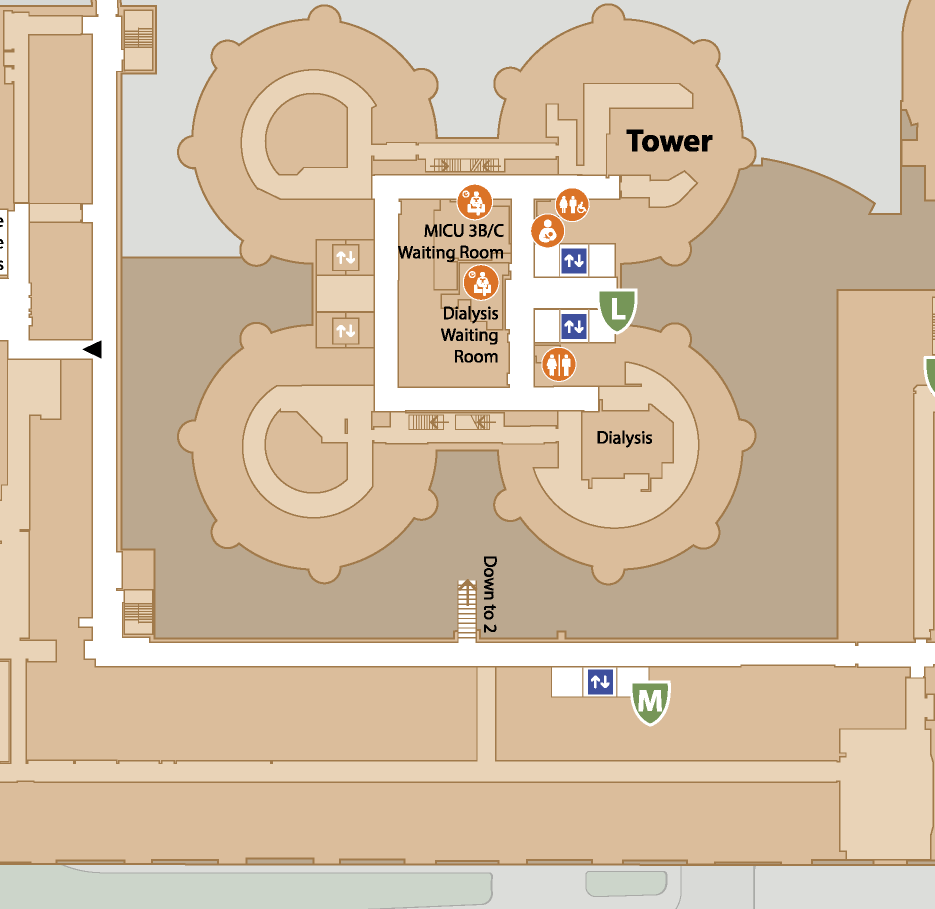
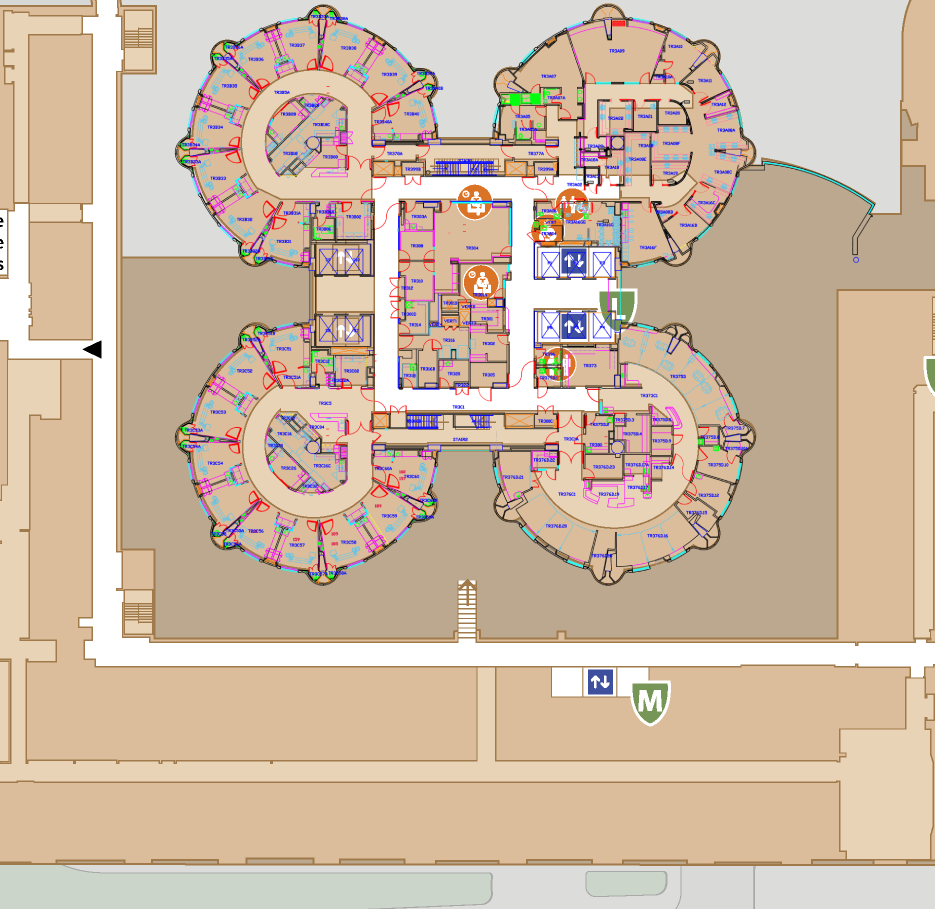
Added 4th and 5th floor and service request filtering

Changed region(s): [[0.1861, 0.0, 0.8374, 0.6469], [0.8684, 0.1848, 0.9305, 0.2772], [0.4963, 0.6161, 0.5273, 0.6777]]

diff --git a/src/main/resources/edu/wpi/energetic_easter_bunnies/view/styles/map.css b/src/main/resources/edu/wpi/energetic_easter_bunnies/view/styles/map.css
@@ -16,6 +16,14 @@
     -fx-background-image: url('../images/maps/03_thethirdfloor.png');
 }
 
+.floor4Map {
+    -fx-background-image: url('../images/maps/04_thefourthfloor.png');
+}
+
+.floor5Map {
+    -fx-background-image: url('../images/maps/05_thefifthfloor.png');
+}
+
 .floorL1Map {
     -fx-background-image: url('../images/maps/00_thelowerlevel1.png');
 }

diff --git a/src/main/java/edu/wpi/energetic_easter_bunnies/controllers/mapPageController.java b/src/main/java/edu/wpi/energetic_easter_bunnies/controllers/mapPageController.java
@@ -43,6 +43,7 @@ public class mapPageController implements Initializable {
   List<MedicalEquipment> medEqList;
   List<MedicalEquipment> filteredMedEqList;
   List<serviceRequest> servReqList;
+  List<serviceRequest> filteredServReqList;
 
   int zoomIncrement = 50;
   int maxZoom = 1035;
@@ -57,7 +58,7 @@ public class mapPageController implements Initializable {
   @FXML JFXSlider zoomSlider;
   @FXML JFXToggleButton filterMode;
 
-  ObservableList<String> floors = FXCollections.observableArrayList("1", "2", "3", "L1", "L2");
+  ObservableList<String> floors = FXCollections.observableArrayList("L1", "L2", "1", "2", "3", "4", "5");
 
   public mapPageController() throws SQLException {
     int i = 3;
@@ -88,7 +89,11 @@ public class mapPageController implements Initializable {
     }
 
     filterMedicalEquipment();
-    filterServiceRequests();
+    try {
+      filterServiceRequests();
+    } catch (SQLException e) {
+      e.printStackTrace();
+    }
 
     // Display the currently selected filterMode
     if (filterMode.isSelected() == false) {
@@ -100,7 +105,11 @@ public class mapPageController implements Initializable {
         e.printStackTrace();
       }
     } else {
-      // Show service request locations
+      try {
+        displayServiceRequestLocations(filteredServReqList);
+      } catch (FileNotFoundException e) {
+        e.printStackTrace();
+      }
     }
   }
 
@@ -152,6 +161,37 @@ public class mapPageController implements Initializable {
     }
   }
 
+  private void displayServiceRequestLocations(List<serviceRequest> servReqList)
+      throws FileNotFoundException {
+
+    System.out.println("Display Service Request Locations");
+
+    double imageX = mapImage.getFitWidth();
+    double coordinateX = 935;
+    double scaleFactor = imageX / coordinateX;
+
+    // Remove all the icons from the map
+    mapBox.getChildren().clear();
+    mapBox.getChildren().add(mapImage);
+
+    // Display an icon for each item in the filtered list
+    for (serviceRequest e : filteredServReqList) {
+      Image image =
+          new Image(
+              new FileInputStream(
+                  "src/main/resources/edu/wpi/energetic_easter_bunnies/view/icons/medicine.png"));
+      double prefWidth = (int) image.getWidth() / 2.5;
+      double prefHeight = (int) image.getHeight() / 2.5;
+
+      ImageView i = new ImageView(image);
+      i.setFitWidth(prefWidth);
+      i.setFitHeight(prefHeight);
+      i.setX(e.getxCoord() * scaleFactor - (prefWidth / 2));
+      i.setY(e.getyCoord() * scaleFactor - (prefHeight / 2));
+      mapBox.getChildren().add(i);
+    }
+  }
+
   private void switchMap(String floor) throws FileNotFoundException, SQLException {
 
     // Clears the medical Equipment Icons
@@ -170,6 +210,18 @@ public class mapPageController implements Initializable {
             new Image(
                 new FileInputStream(
                     "src/main/resources/edu/wpi/energetic_easter_bunnies/view/images/maps/03_thethirdfloor.png")));
+        break;
+      case "4":
+        mapImage.setImage(
+                new Image(
+                        new FileInputStream(
+                                "src/main/resources/edu/wpi/energetic_easter_bunnies/view/images/maps/04_thefourthfloor.png")));
+        break;
+      case "5":
+        mapImage.setImage(
+                new Image(
+                        new FileInputStream(
+                                "src/main/resources/edu/wpi/energetic_easter_bunnies/view/images/maps/05_thefifthfloor.png")));
         break;
       case "L1":
         mapImage.setImage(
@@ -198,7 +250,7 @@ public class mapPageController implements Initializable {
     if (filterMode.isSelected() == false) {
       displayMedEquipLocations(filteredMedEqList);
     } else {
-      // Show service request locations
+      displayServiceRequestLocations(filteredServReqList);
     }
   }
 
@@ -213,7 +265,7 @@ public class mapPageController implements Initializable {
     if (filterMode.isSelected() == false) {
       displayMedEquipLocations(filteredMedEqList);
     } else {
-      // Show service request locations
+      displayServiceRequestLocations(filteredServReqList);
     }
   }
 
@@ -231,7 +283,7 @@ public class mapPageController implements Initializable {
       if (filterMode.isSelected() == false) {
         displayMedEquipLocations(filteredMedEqList);
       } else {
-        // Show service request locations
+        displayServiceRequestLocations(filteredServReqList);
       }
     }
   }
@@ -250,7 +302,7 @@ public class mapPageController implements Initializable {
       if (filterMode.isSelected() == false) {
         displayMedEquipLocations(filteredMedEqList);
       } else {
-        // Show service request locations
+        displayServiceRequestLocations(filteredServReqList);
       }
     }
   }
@@ -284,26 +336,23 @@ public class mapPageController implements Initializable {
   }
 
   // Filter service requests by floor
-  public void filterServiceRequests() {
+  public void filterServiceRequests() throws SQLException {
     // Starter code to implement showing all service requests on the map
     String floor = floorDropdown.getValue().toString();
-    // servReqList = servReq.getAll();
+    ServiceRequestDAOImpl serviceRequestDAO = new ServiceRequestDAOImpl();
+    serviceRequestDAO.getCoords();
 
-    //    List<serviceRequest> filteredRequests =
-    //            medEqList.stream()
-    //                    .filter(
-    //                            medicalEquipment -> {
-    //                              try {
-    //                                if (Objects.equals(medicalEquipment.getFloor(), floor)) {
-    //                                  return true;
-    //                                }
-    //                              } catch (SQLException e) {
-    //                                e.printStackTrace();
-    //                              }
-    //                              return false;
-    //                            })
-    //                    .collect(Collectors.toList());
-    //    displayMedEquipLocations(filteredEquipment);
+    // Filter service request list to only show the current floor
+    filteredServReqList =
+        serviceRequestDAO.getAll().stream()
+            .filter(
+                serviceRequest -> {
+                  if (Objects.equals(serviceRequest.getFloorID(), floor)) {
+                    return true;
+                  }
+                  return false;
+                })
+            .collect(Collectors.toList());
   }
 
   @FXML

diff --git a/src/main/java/edu/wpi/energetic_easter_bunnies/database/CSVManager.java b/src/main/java/edu/wpi/energetic_easter_bunnies/database/CSVManager.java
@@ -227,21 +227,21 @@ public class CSVManager {
     // change with the proper format in first line of function
     for (Account d : dao.getAll()) {
       String csvLine =
-              ""
-                      + d.getAccountID()
-                      + ','
-                      + d.getEmployeeID()
-                      + ','
-                      + d.getAuthorityLevel()
-                      + ','
-                      + d.getPasswordHash()
-                      + ','
-                      + d.getFirstName()
-                      + ','
-                      + d.getLastName()
-                      + ','
-                      + d.getPosition()
-                      + "\n";
+          ""
+              + d.getAccountID()
+              + ','
+              + d.getEmployeeID()
+              + ','
+              + d.getAuthorityLevel()
+              + ','
+              + d.getPasswordHash()
+              + ','
+              + d.getFirstName()
+              + ','
+              + d.getLastName()
+              + ','
+              + d.getPosition()
+              + "\n";
       // change nothing
       out.write(csvLine);
     }
@@ -277,7 +277,7 @@ public class CSVManager {
   }
 
   public static boolean loadAccountCSV(String fileName) throws SQLException, IOException {
-    return loadCSVGeneral(fileName,"ACCOUNTS", accountFormat);
+    return loadCSVGeneral(fileName, "ACCOUNTS", accountFormat);
   }
 
   /*

diff --git a/src/main/java/edu/wpi/energetic_easter_bunnies/database/daos/ServiceRequestDAOImpl.java b/src/main/java/edu/wpi/energetic_easter_bunnies/database/daos/ServiceRequestDAOImpl.java
@@ -41,20 +41,20 @@ public class ServiceRequestDAOImpl implements DAO<serviceRequest> {
     }
   }
 
-  public void getCoords() throws SQLException{
-      DAO<Location> locationDAO = new LocationDAOImpl();
-      for(serviceRequest request : serviceRequests){
-        try{
-          Location location = locationDAO.get(request.getRoomID());
-          request.setxCoord(location.getXcoord());
-          request.setyCoord(location.getYcoord());
-          request.setFloorID(location.getFloor());
-        } catch (NullPointerException e){
-          e.printStackTrace();
-          request.setxCoord(-1);
-          request.setyCoord(-1);
-        }
+  public void getCoords() throws SQLException {
+    DAO<Location> locationDAO = new LocationDAOImpl();
+    for (serviceRequest request : serviceRequests) {
+      try {
+        Location location = locationDAO.get(request.getRoomID());
+        request.setxCoord(location.getXcoord());
+        request.setyCoord(location.getYcoord());
+        request.setFloorID(location.getFloor());
+      } catch (NullPointerException e) {
+        e.printStackTrace();
+        request.setxCoord(-1);
+        request.setyCoord(-1);
       }
+    }
   }
 
   @Override

diff --git a/src/main/java/edu/wpi/energetic_easter_bunnies/controllers/mapEditorController.java b/src/main/java/edu/wpi/energetic_easter_bunnies/controllers/mapEditorController.java
@@ -63,7 +63,7 @@ public class mapEditorController implements Initializable {
   String editMode;
   Location selectedLoc;
 
-  ObservableList<String> floors = FXCollections.observableArrayList("1", "2", "3", "L1", "L2");
+  ObservableList<String> floors = FXCollections.observableArrayList("L1", "L2", "1", "2", "3", "4", "5");
   ObservableList<String> nodes =
       FXCollections.observableArrayList(
           "PATI", "STOR", "DIRT", "HALL", "ELEV", "REST", "STAI", "DEPT", "LABS", "INFO", "CONF",
@@ -237,6 +237,12 @@ public class mapEditorController implements Initializable {
         break;
       case "3":
         mapBox.getStyleClass().add("floor3Map");
+        break;
+      case "4":
+        mapBox.getStyleClass().add("floor4Map");
+        break;
+      case "5":
+        mapBox.getStyleClass().add("floor5Map");
         break;
       case "L1":
         mapBox.getStyleClass().add("floorL1Map");

diff --git a/src/main/java/edu/wpi/energetic_easter_bunnies/entity/serviceRequest.java b/src/main/java/edu/wpi/energetic_easter_bunnies/entity/serviceRequest.java
@@ -60,8 +60,6 @@ public class serviceRequest {
   private int xCoord;
   private int yCoord;
 
-
-
   private String requestStatus;
   private String staffAssignee;
 
@@ -195,7 +193,6 @@ public class serviceRequest {
     return isUrgent;
   }
 
-
   public int getxCoord() {
     return xCoord;
   }
@@ -211,5 +208,4 @@ public class serviceRequest {
   public void setyCoord(int yCoord) {
     this.yCoord = yCoord;
   }
-
 }
